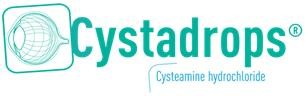
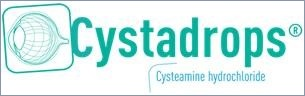
cambio de imagenes
nueva imagenes para las portadas

Changed region(s): [[0.0, 0.0, 1.0, 1.0]]

diff --git a/terminos_de_uso.html b/terminos_de_uso.html
@@ -19,7 +19,7 @@
       <meta name="viewport" content="width=device-width, initial-scale=1.0"/>
     </head>
     <body>
-       <div id="content_main">
+       <div id="content_main"> 
          <ul id="slide-out" class="side-nav">
           <li><a href="index-2.html">INICIO</a></li>
           <li>
@@ -57,8 +57,8 @@
              <img class="responsive-img logo_recordati_2" src="img/logo_recordati_2.png" width="350" height="93">
              <h2 id="text_logo_acerca">Recordati Rare Diseases</h2>
           </div>
-          <div class="col s12 m12 l7" style="margin: 0; padding: 0; max-height: 270px; overflow: hidden;">
-           <!--  <img class="responsive-img" src="img/back_legales.png"> -->
+          <div class="col s12 m12 l7" style="margin: 0; padding: 0; max-height: 341px; overflow: hidden;">
+           <img class="responsive-img" src="img/legal.png"> 
           </div>
          </div>
 

diff --git a/recordati_mexico.html b/recordati_mexico.html
@@ -58,7 +58,7 @@
              <h2 id="text_logo_acerca">Recordati Rare Diseases</h2>
           </div>
           <div class="col s12 m12 l7" style="margin: 0; padding: 0; max-height: 341px; overflow: hidden;">
-            <img class="responsive-img" src="img/recordati_mexico_responsive.jpg">
+            <img class="responsive-img" src="img/oficina.jpg">
           </div>
          </div>
 
